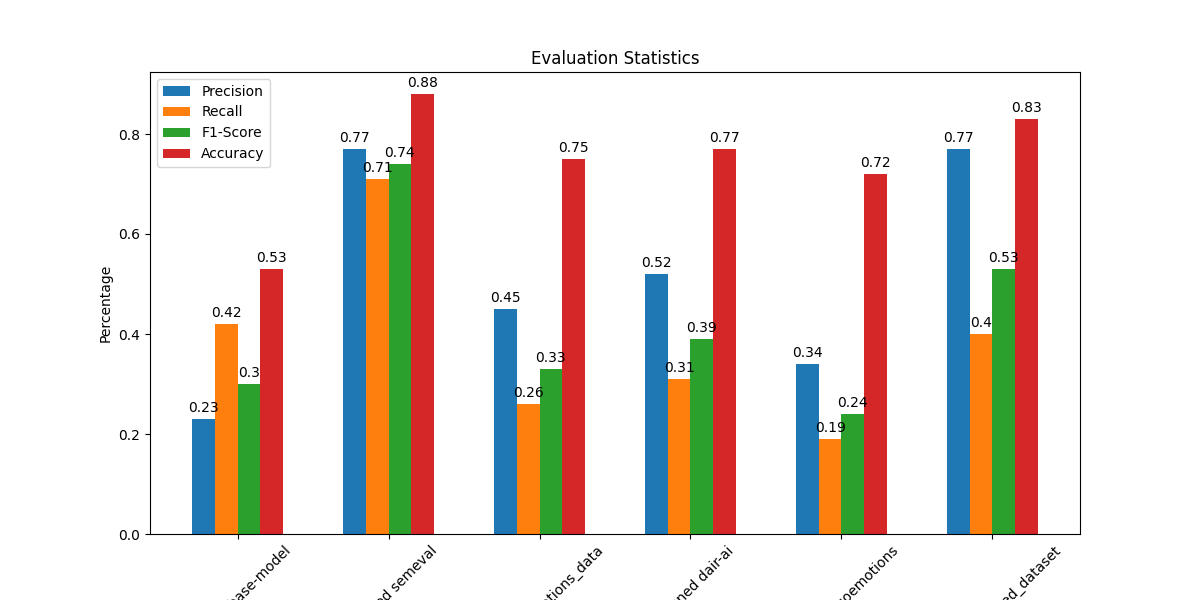
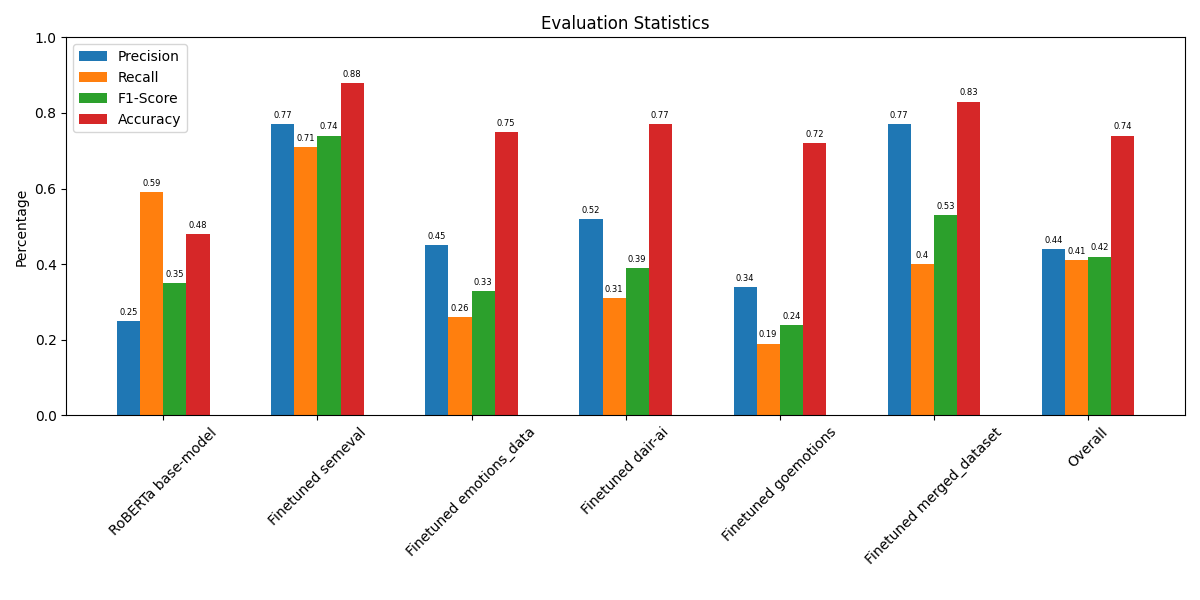
improve evaluation plots

diff --git a/eval_roberta.py b/eval_roberta.py
@@ -329,35 +329,16 @@ def statistics(statistics_correct_voting_table):
 
     plt.figure()
 
-    """  bar_width = 0.1
-    distance_between_models = 0.2
-
-    metrics_each = range(5 + 1)
-
-    i = 0
-    for model in models:
-        # plot all the accuracies, nothing else
-        plt.bar(
-            [x + i * (bar_width + distance_between_models) for x in metrics_each],
-            [model.accuracy * 100],
-            width=bar_width,
-            label=model.name,
-        )
-
-        # plot all the f1-scores next to it
-        plt.bar(
-            [x + i * (bar_width + distance_between_models) for x in metrics_each],
-            [model.f1_score * 100],
-            width=bar_width,
-            label=model.name,
-        )
- """
-
     model_names = [model.name for model in models]
+    model_names.append("Overall")
     precisions = [model.precision for model in models]
+    precisions.append(precision)
     recalls = [model.recall for model in models]
+    recalls.append(recall)
     f1_scores = [model.f1_score for model in models]
+    f1_scores.append(f1_score)
     accuracies = [model.accuracy for model in models]
+    accuracies.append(accuracy)
 
     x = np.arange(len(model_names))  # the label locations
     width = 0.15  # the width of the bars
@@ -396,6 +377,7 @@ def statistics(statistics_correct_voting_table):
                 textcoords="offset points",
                 ha="center",
                 va="bottom",
+                fontsize=6,
             )
 
     autolabel(rects1)
@@ -409,6 +391,9 @@ def statistics(statistics_correct_voting_table):
     plt.legend()
     plt.ylabel("Percentage")
     plt.title("Evaluation Statistics")
+    plt.tight_layout(rect=[0.0, 0.03, 1, 1])  # Adjust the bottom margin
+    ax.set_ylim(0, 1)
+
     fig = plt.gcf()
     # save the plot
     fig.savefig("evaluation_statistics_plot.png")
